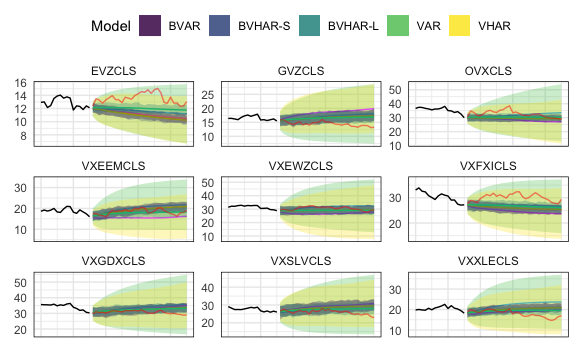
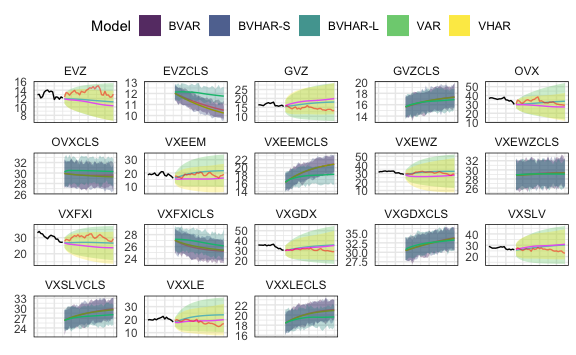
draw acf and ccf of etf vix

diff --git a/docs/analysis.md b/docs/analysis.md
@@ -1,10 +1,12 @@
 Empirical Analysis
 ================
 Young Geun Kim
-16 Mar, 2022
+11 Jun, 2022
 
 -   [Data](#data)
     -   [Split](#split)
+    -   [Long-range dependency](#long-range-dependency)
+        -   [Plot](#plot)
 -   [Model](#model)
     -   [VAR](#var)
     -   [VHAR](#vhar)
@@ -70,9 +72,11 @@ etf_raw <- readRDS(etf_data)
 
 ``` r
 te_date <- tail(etf_raw$data_wide$date, h)[1]
-etf_raw$data_long %>% 
+data_plt <- 
+  etf_raw$data_long %>% 
   mutate(
     train = date < te_date,
+    series_id = str_remove_all(series_id, pattern = "CLS$"),
     xmin = min(date[train == FALSE]),
     xmax = max(date)
   ) %>% 
@@ -87,21 +91,22 @@ etf_raw$data_long %>%
   theme_minimal() +
   theme(
     panel.border = element_rect(fill = NA),
-    strip.text = element_text(size = 3),
+    # strip.text = element_text(size = 5),
     axis.text.y = element_text(size = 5)
   ) +
   labs(
     x = element_blank(),
     y = "Volatility index"
   )
+data_plt
 ```
 
 <img src="../output/figs/analysis-dataplot-1.png" width="70%" style="display: block; margin: auto;" />
 
 ``` r
 ggsave(
-  "../output/figs/analysis-dataplot.pdf", 
-  last_plot(),
+  filename = "../output/figs/analysis-dataplot.pdf", 
+  plot = data_plt,
   device = "pdf",
   scale = .618,
   width = fig_width, 
@@ -113,9 +118,126 @@ ggsave(
 ```
 
 ``` r
-etf_split <- divide_ts(etf_vix, h)
+etf_split <- 
+  divide_ts(
+    etf_vix %>% rename_with(~str_remove_all(., pattern = "CLS$")), 
+    h
+  )
 etf_train <- etf_split$train
 etf_test <- etf_split$test
+```
+
+## Long-range dependency
+
+### Plot
+
+ACF:
+
+``` r
+gvz_acf <- 
+  etf_train %>% 
+  select(GVZ) %>% 
+  forecast::ggAcf(lag.max = 50) +
+  theme_minimal() +
+  theme(
+    panel.border = element_rect(fill = NA),
+    axis.text.y = element_text(size = 5),
+    axis.text.x = element_text(size = 5)
+  ) +
+  labs(title = element_blank())
+#> Registered S3 method overwritten by 'quantmod':
+#>   method            from
+#>   as.zoo.data.frame zoo
+gvz_acf
+```
+
+<img src="../output/figs/analysis-gvzacf-1.png" width="70%" style="display: block; margin: auto;" />
+
+``` r
+ovx_acf <- 
+  etf_train %>% 
+  select(OVX) %>% 
+  forecast::ggAcf(lag.max = 50) +
+  theme_minimal() +
+  theme(
+    panel.border = element_rect(fill = NA),
+    axis.text.y = element_text(size = 5),
+    axis.text.x = element_text(size = 5)
+  ) +
+  labs(title = element_blank())
+ovx_acf
+```
+
+<img src="../output/figs/analysis-ovxacf-1.png" width="70%" style="display: block; margin: auto;" />
+
+Prewhitening for CCF:
+
+``` r
+gvz_ar <- forecast::Arima(etf_train$GVZ, order = c(30L, 0L, 0L), include.mean = FALSE, include.drift = FALSE)
+ovx_ar <- forecast::Arima(etf_train$OVX, order = c(30L, 0L, 0L), include.mean = FALSE, include.drift = FALSE)
+# prewhitening---------------
+gvz_resid <- gvz_ar$residuals
+ovx_resid <- ovx_ar$residuals
+```
+
+CCF:
+
+``` r
+resid_ccf <- 
+  data.frame(
+    Prewhitened_GVZ = gvz_resid,
+    Prewhitened_OVX = ovx_resid
+  ) %>% 
+  forecast::ggAcf(lag.max = 50) +
+  theme_minimal() +
+  theme(
+    panel.border = element_rect(fill = NA),
+    axis.text.y = element_text(size = 5),
+    axis.text.x = element_text(size = 5)
+  ) +
+  labs(title = element_blank())
+resid_ccf
+```
+
+<img src="../output/figs/analysis-residccf-1.png" width="70%" style="display: block; margin: auto;" />
+
+``` r
+# acf of GVZ---------------
+ggsave(
+  filename = "../output/figs/analysis-lrdacf-gvz.pdf", 
+  plot = gvz_acf,
+  device = "pdf",
+  scale = .618,
+  width = fig_width, 
+  units = "in",
+  dpi = 1500,
+  limitsize = FALSE
+)
+#> Saving 12.4 x 2.29 in image
+# acf of OVX---------------
+ggsave(
+  filename = "../output/figs/analysis-lrdacf-ovx.pdf", 
+  plot = ovx_acf,
+  device = "pdf",
+  scale = .618,
+  width = fig_width, 
+  units = "in",
+  dpi = 1500,
+  limitsize = FALSE
+)
+#> Saving 12.4 x 2.29 in image
+# ccf after prewhitening---
+ggsave(
+  filename = "../output/figs/analysis-lrdccf.pdf", 
+  plot = resid_ccf,
+  device = "pdf",
+  scale = .618,
+  width = fig_width, 
+  units = "in",
+  dpi = 1500,
+  limitsize = FALSE
+)
+#> Saving 12.4 x 2.29 in image
 ```
 
 # Model
@@ -502,7 +624,8 @@ get_rmfe_tr(
 ## Piecewise Errors
 
 ``` r
-roll_list[[1]] %>% 
+err_plt <- 
+  roll_list[[1]] %>% 
   gg_loss(
     etf_test, 
     mean_line = TRUE, 
@@ -516,14 +639,15 @@ roll_list[[1]] %>%
     legend.position = "top"
   ) +
   scale_colour_viridis_d(labels = c("BVAR", "BVHAR-S", "BVHAR-L", "VAR", "VHAR"))
+err_plt
 ```
 
 <img src="../output/figs/analysis-piecewise-error-1.png" width="70%" style="display: block; margin: auto;" />
 
 ``` r
 ggsave(
-  "../output/figs/analysis-piecewise-error.pdf", 
-  last_plot(),
+  filename = "../output/figs/analysis-piecewise-error.pdf", 
+  plot = err_plt,
   device = "pdf",
   scale = .618,
   width = fig_width, 
@@ -561,7 +685,8 @@ pred_bvhar_vhar <- predict(fit_bvhar_vhar, h)
 <!-- ``` -->
 
 ``` r
-autoplot(pred_var, x_cut = 860, ci_alpha = .8, type = "wrap") +
+interval_plt <- 
+  autoplot(pred_var, x_cut = 860, ci_alpha = .8, type = "wrap") +
   autolayer(pred_vhar, ci_alpha = .7) +
   autolayer(pred_bvar, ci_alpha = .6) +
   autolayer(pred_bvhar, ci_alpha = .5) +
@@ -574,14 +699,15 @@ autoplot(pred_var, x_cut = 860, ci_alpha = .8, type = "wrap") +
     legend.position = "top"
   ) +
   scale_fill_viridis_d(labels = c("BVAR", "BVHAR-S", "BVHAR-L", "VAR", "VHAR"))
+interval_plt
 ```
 
 <img src="../output/figs/analysis-credplot-1.png" width="70%" style="display: block; margin: auto;" />
 
 ``` r
 ggsave(
-  "../output/figs/analysis-credplot.pdf", 
-  last_plot(),
+  filename = "../output/figs/analysis-credplot.pdf", 
+  plot = interval_plt,
   device = "pdf",
   scale = .618,
   width = fig_width, 

diff --git a/docs/sim-consistency.md b/docs/sim-consistency.md
@@ -1,7 +1,7 @@
 Simulation for Consistency
 ================
 Young Geun Kim
-09 Jun, 2022
+10 Jun, 2022
 
 -   [Fit Models](#fit-models)
     -   [BVHAR-S](#bvhar-s)
@@ -740,34 +740,98 @@ large_ree <-
 ree_table <- bind_rows(small_ree, medium_ree, large_ree)
 ```
 
-    \begin{table}
+``` r
+ree_table %>% 
+  select(model, size, error_s, error_l, sd_s, sd_l) %>% 
+  mutate(
+    size = case_when(
+      model == "SMALL" & size == 1 ~ 40,
+      model == "SMALL" & size == 2 ~ 80,
+      model == "SMALL" & size == 3 ~ 120,
+      model == "MEDIUM" & size == 1 ~ 200,
+      model == "MEDIUM" & size == 2 ~ 400,
+      model == "MEDIUM" & size == 3 ~ 600,
+      model == "LARGE" & size == 1 ~ 400,
+      model == "LARGE" & size == 2 ~ 800,
+      model == "LARGE" & size == 3 ~ 1200,
+    )
+  ) %>% 
+  mutate_at(
+    vars(error_s, error_l),
+    ~paste0(
+      "\\num{",
+      format(., nsmall = 3, scientific = -2) %>% 
+        str_remove(pattern = "(?<![1-9])0(?=\\.)"), # .xxx
+      "}"
+    )
+  ) %>% 
+  mutate_at(
+    vars(sd_s, sd_l),
+    ~paste0(
+      "(\\num{",
+      format(., nsmall = 3, scientific = -2) %>% 
+        str_remove(pattern = "(?<![1-9])0(?=\\.)"), # .xxx
+      "})"
+    )
+  ) %>% 
+  unite(col = "bvhar_s", c(error_s, sd_s), sep = "\n") %>%
+  unite(col = "bvhar_l", c(error_l, sd_l), sep = "\n") %>% 
+  mutate(
+    size = cell_spec(
+      size,
+      format = "latex",
+      escape = FALSE,
+      align = "c|"
+    )
+  ) %>%
+  mutate_at(
+    vars(bvhar_s, bvhar_l),
+    ~linebreak(., align = "c")
+  ) %>% 
+  kable(
+    format = "latex", 
+    booktabs = TRUE,
+    escape = FALSE,
+    align = "c",
+    col.names = c("$k$", "$T = n + 22$", "BVHAR-S", "BVHAR-L"),
+    caption = "Relative Estimation Error",
+    label = "simconsistency"
+  ) %>% 
+  collapse_rows(
+    columns = 1,
+    valign = "top",
+    latex_hline = "major"
+  ) %>% 
+  writeLines()
+\begin{table}
 
-    \caption{\label{tab:simconsistency}Relative Estimation Error}
-    \centering
-    \begin{tabular}[t]{cccc}
-    \toprule
-    $k$ & $T = n + 22$ & BVHAR-S & BVHAR-L\\
-    \midrule
-     & \multicolumn{1}{c|}{40} & \makecell[c]{\num{.936}\\(\num{.0705})} & \makecell[c]{\num{.944}\\(\num{.0706})}\\
+\caption{\label{tab:simconsistency}Relative Estimation Error}
+\centering
+\begin{tabular}[t]{cccc}
+\toprule
+$k$ & $T = n + 22$ & BVHAR-S & BVHAR-L\\
+\midrule
+ & \multicolumn{1}{c|}{40} & \makecell[c]{\num{.936}\\(\num{.0705})} & \makecell[c]{\num{.944}\\(\num{.0706})}\\
 
-     & \multicolumn{1}{c|}{80} & \makecell[c]{\num{.874}\\(\num{.0714})} & \makecell[c]{\num{.882}\\(\num{.0705})}\\
+ & \multicolumn{1}{c|}{80} & \makecell[c]{\num{.874}\\(\num{.0714})} & \makecell[c]{\num{.882}\\(\num{.0705})}\\
 
-    \multirow{-3}{*}{\centering\arraybackslash SMALL} & \multicolumn{1}{c|}{120} & \makecell[c]{\num{.840}\\(\num{.0782})} & \makecell[c]{\num{.852}\\(\num{.0781})}\\
-    \cmidrule{1-4}
-     & \multicolumn{1}{c|}{200} & \makecell[c]{\num{.886}\\(\num{.1941})} & \makecell[c]{\num{.887}\\(\num{.1927})}\\
+\multirow[t]{-3}{*}{\centering\arraybackslash SMALL} & \multicolumn{1}{c|}{120} & \makecell[c]{\num{.840}\\(\num{.0782})} & \makecell[c]{\num{.852}\\(\num{.0781})}\\
+\cmidrule{1-4}
+ & \multicolumn{1}{c|}{200} & \makecell[c]{\num{.886}\\(\num{.1941})} & \makecell[c]{\num{.887}\\(\num{.1927})}\\
 
-     & \multicolumn{1}{c|}{400} & \makecell[c]{\num{.844}\\(\num{.1416})} & \makecell[c]{\num{.844}\\(\num{.1415})}\\
+ & \multicolumn{1}{c|}{400} & \makecell[c]{\num{.844}\\(\num{.1416})} & \makecell[c]{\num{.844}\\(\num{.1415})}\\
 
-    \multirow{-3}{*}{\centering\arraybackslash MEDIUM} & \multicolumn{1}{c|}{600} & \makecell[c]{\num{.837}\\(\num{.1451})} & \makecell[c]{\num{.837}\\(\num{.1450})}\\
-    \cmidrule{1-4}
-     & \multicolumn{1}{c|}{400} & \makecell[c]{\num{.978}\\(\num{.0124})} & \makecell[c]{\num{.984}\\(\num{.0108})}\\
+\multirow[t]{-3}{*}{\centering\arraybackslash MEDIUM} & \multicolumn{1}{c|}{600} & \makecell[c]{\num{.837}\\(\num{.1451})} & \makecell[c]{\num{.837}\\(\num{.1450})}\\
+\cmidrule{1-4}
+ & \multicolumn{1}{c|}{400} & \makecell[c]{\num{.978}\\(\num{.0124})} & \makecell[c]{\num{.984}\\(\num{.0108})}\\
 
-     & \multicolumn{1}{c|}{800} & \makecell[c]{\num{.976}\\(\num{.0184})} & \makecell[c]{\num{.982}\\(\num{.0162})}\\
+ & \multicolumn{1}{c|}{800} & \makecell[c]{\num{.976}\\(\num{.0184})} & \makecell[c]{\num{.982}\\(\num{.0162})}\\
 
-    \multirow{-3}{*}{\centering\arraybackslash LARGE} & \multicolumn{1}{c|}{1200} & \makecell[c]{\num{.975}\\(\num{.0115})} & \makecell[c]{\num{.980}\\(\num{.0103})}\\
-    \bottomrule
-    \end{tabular}
-    \end{table}
+\multirow[t]{-3}{*}{\centering\arraybackslash LARGE} & \multicolumn{1}{c|}{1200} & \makecell[c]{\num{.975}\\(\num{.0115})} & \makecell[c]{\num{.980}\\(\num{.0103})}\\
+\bottomrule
+\end{tabular}
+\end{table}
+```
 
 ``` r
 ree_boxplt <- 
